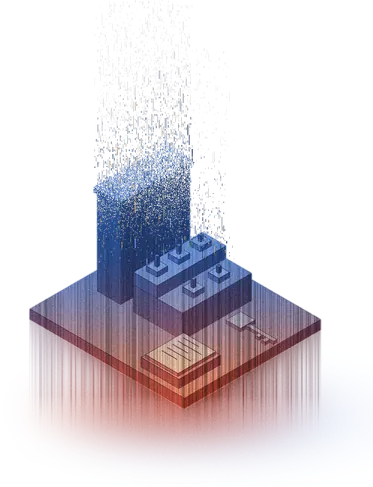
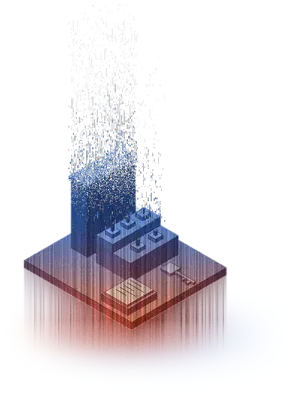
fix(web): fit the dissolve art in its cards and use it on the login page
- size ArtHero's scene to the card height so the dashes and streaks stay whole
  - re-dissolve the six scenes with a margin so the base shadow fades inside the image
  - replace the login photo with the palisade scene in the ledger palette, both themes
  - drop static/imgs/login-security-v2.webp

Changed region(s): [[0.0619, 0.1823, 0.866, 0.9114]]

diff --git a/web/src/features/login/LoginPage.tsx b/web/src/features/login/LoginPage.tsx
@@ -1,6 +1,8 @@
 import { useState, type ReactNode } from "react";
 import { fromB64, toB64 } from "@/lib/b64";
 import { cn } from "@/lib/utils";
+import loginArt from "@/assets/art/login.webp";
+import loginArtSm from "@/assets/art/login-sm.webp";
 
 // The public sign-in page (web/login.html, its own build): password, the 2FA
 // step and an invite's set-password step. Forms post to Go as before, and Go
@@ -58,12 +60,11 @@ export function LoginPage({ state = readLogin() }: { state?: LoginState }) {
   return (
     <div className="min-h-dvh w-full bg-canvas text-ink lg:flex lg:items-stretch lg:gap-8 lg:p-8">
       <div className="flex flex-1 flex-col lg:overflow-hidden lg:border lg:border-edge lg:bg-card">
-        <div className="relative h-52 w-full shrink-0 overflow-hidden sm:h-64 lg:hidden">
-          <Art admin={s.admin} />
-          <div className="absolute inset-0 bg-linear-to-t from-black/35 via-transparent to-transparent" />
+        <div className="relative h-52 w-full shrink-0 overflow-hidden border-b border-edge bg-card sm:h-64 lg:hidden">
+          <Art className="right-4 left-auto w-auto py-3" />
           <span className="absolute bottom-4 left-5 flex items-center gap-2">
-            <img src={`${s.admin}/static/imgs/logo.svg`} alt="" className="h-6 w-6 drop-shadow-sm" />
-            <span className="font-mono text-sm uppercase tracking-[.16em] text-white drop-shadow-sm">Palisade</span>
+            <img src={`${s.admin}/static/imgs/logo.svg`} alt="" className="h-6 w-6" />
+            <span className="font-mono text-sm uppercase tracking-[.16em] text-ink">Palisade</span>
           </span>
         </div>
 
@@ -104,23 +105,27 @@ export function LoginPage({ state = readLogin() }: { state?: LoginState }) {
         </div>
       </div>
 
-      <div className="relative hidden overflow-hidden border border-edge lg:block lg:w-[42%] xl:w-[45%]">
-        <Art admin={s.admin} />
-        <div className="absolute inset-0 bg-linear-to-t from-black/25 via-transparent to-transparent" />
+      <div className="relative hidden overflow-hidden border border-edge bg-card lg:block lg:w-[42%] xl:w-[45%]">
+        <Art className="w-full p-10 xl:p-14" />
       </div>
     </div>
   );
 }
 
-const Art = ({ admin }: { admin: string }) => (
+// The palisade scene from scripts/art (dissolve.py --palette ledger), the
+// same treatment as the app's page heroes, whole and on the card colour.
+const Art = ({ className }: { className?: string }) => (
   <img
-    src={`${admin}/static/imgs/login-security-v2.webp`}
+    src={loginArtSm}
+    srcSet={`${loginArtSm} 586w, ${loginArt} 1173w`}
+    sizes="(min-width: 1024px) 45vw, 200px"
     alt=""
     aria-hidden
-    width={1000}
-    height={1250}
+    width={1173}
+    height={1445}
     fetchPriority="high"
-    className="absolute inset-0 h-full w-full object-cover object-center grayscale-[.6] sepia-[.25]"
+    draggable={false}
+    className={cn("pointer-events-none absolute inset-0 h-full object-contain object-center select-none", className)}
   />
 );
 

diff --git a/web/src/components/Art.tsx b/web/src/components/Art.tsx
@@ -17,12 +17,12 @@ import { cn } from "@/lib/utils";
 // Decorative scenes drawn by scripts/art (render.py, then dissolve.py with
 // the ledger palette). Transparent WebP, so one file sits on both themes.
 const scenes = {
-  palisade: { full: palisade, sm: palisadeSm, w: 758, h: 959 },
-  rack: { full: rack, sm: rackSm, w: 687, h: 1068 },
-  vault: { full: vault, sm: vaultSm, w: 753, h: 1010 },
-  beacon: { full: beacon, sm: beaconSm, w: 632, h: 1060 },
-  sieve: { full: sieve, sm: sieveSm, w: 747, h: 1003 },
-  console: { full: consoleArt, sm: consoleSm, w: 747, h: 974 },
+  palisade: { full: palisade, sm: palisadeSm, w: 601, h: 793 },
+  rack: { full: rack, sm: rackSm, w: 594, h: 917 },
+  vault: { full: vault, sm: vaultSm, w: 591, h: 818 },
+  beacon: { full: beacon, sm: beaconSm, w: 585, h: 976 },
+  sieve: { full: sieve, sm: sieveSm, w: 583, h: 808 },
+  console: { full: consoleArt, sm: consoleSm, w: 583, h: 791 },
 };
 
 // Art is decoration only: empty alt and hidden from assistive tech. Width and
@@ -47,17 +47,17 @@ export function Art({ name, className }: { name: keyof typeof scenes; className?
 }
 
 // ArtHero opens a page: eyebrow, title and a line of copy on the left, the
-// scene bleeding off the card's right edge. The scene is clipped only at the
-// top (its rising dashes) and the bottom (its streaks), and hidden on phones.
+// whole scene on the right, sized to the card's height so neither its rising
+// dashes nor its streaks are cut off. Hidden on phones.
 export function ArtHero({ art, eyebrow, title, children }: { art: keyof typeof scenes; eyebrow: string; title: string; children: ReactNode }) {
   return (
-    <section className="relative overflow-hidden border border-edge bg-card sm:min-h-[220px]">
-      <div className="relative z-10 flex flex-col gap-3 p-6 sm:pr-[260px]">
+    <section className="relative overflow-hidden border border-edge bg-card sm:min-h-[240px]">
+      <div className="relative z-10 flex flex-col gap-3 p-6 sm:pr-[240px] lg:pr-[260px]">
         <p className={labelMono}>{eyebrow}</p>
         <h2 className="text-[24px] leading-tight text-ink sm:text-[30px]">{title}</h2>
         {children}
       </div>
-      <Art name={art} className="absolute right-2 -bottom-10 hidden w-[240px] sm:block lg:right-8" />
+      <Art name={art} className="absolute inset-y-3 right-4 hidden h-[calc(100%-1.5rem)] w-auto max-w-[220px] object-contain object-bottom sm:block lg:right-8" />
     </section>
   );
 }
